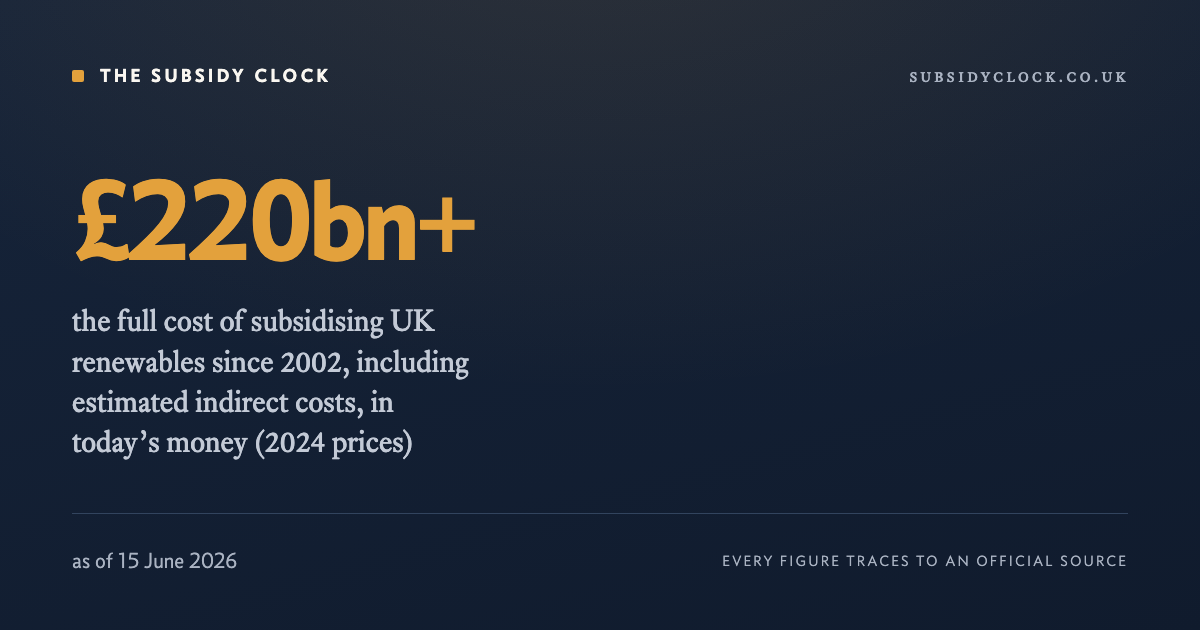
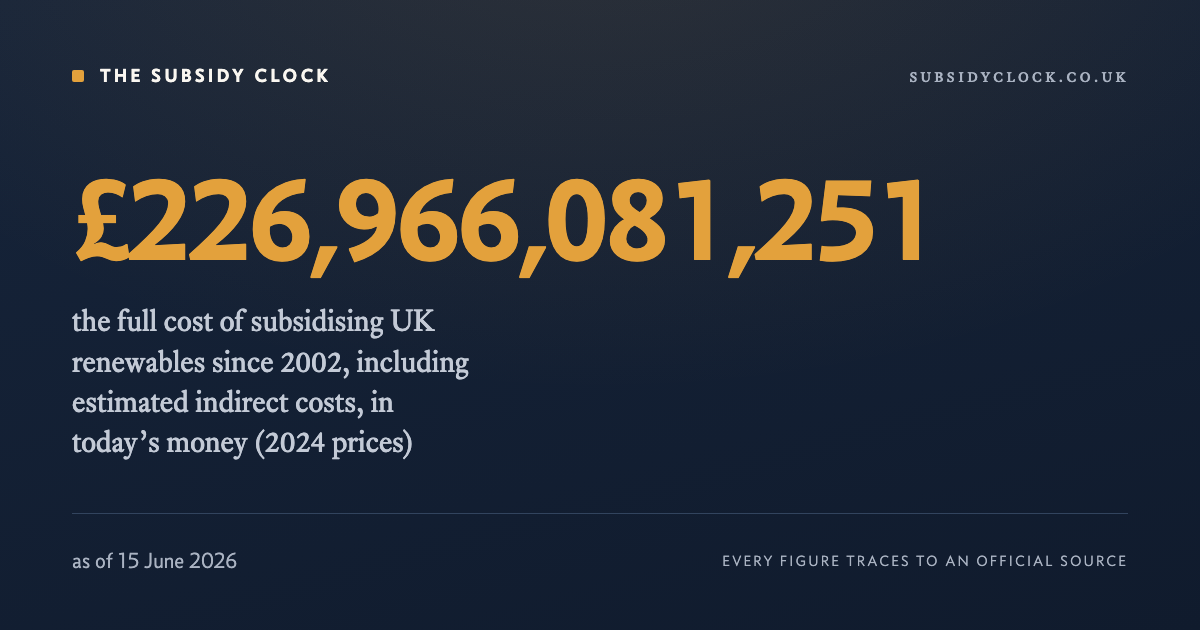
feat(share): headline card shows the full £226,966,081,251 figure, not £220bn+
The impact is in the full twelve-significant-figure number. The floored
£220bn+ remains for the hero lead-in and the 'could have built' factoids
(which must understate); only the card shows the full figure.

Changed region(s): [[0.2158, 0.2714, 0.7708, 0.4524]]

diff --git a/site/s/headline.html b/site/s/headline.html
@@ -3,9 +3,9 @@
 <head>
 <meta charset="utf-8">
 <meta name="robots" content="noindex">
-<title>£220bn+ the full cost of subsidising UK renewables since 2002, including estimated indirect costs, in today’s money (2024 prices) — The Subsidy Clock</title>
+<title>£226,966,081,251 the full cost of subsidising UK renewables since 2002, including estimated indirect costs, in today’s money (2024 prices) — The Subsidy Clock</title>
 <meta name="description" content="As of 15 June 2026. Every figure traces to an official source.">
-<meta property="og:title" content="£220bn+ the full cost of subsidising UK renewables since 2002, including estimated indirect costs, in today’s money (2024 prices)">
+<meta property="og:title" content="£226,966,081,251 the full cost of subsidising UK renewables since 2002, including estimated indirect costs, in today’s money (2024 prices)">
 <meta property="og:description" content="As of 15 June 2026. Every figure traces to an official source.">
 <meta property="og:type" content="website">
 <meta property="og:site_name" content="The Subsidy Clock">
@@ -18,7 +18,7 @@
 <meta http-equiv="refresh" content="0;url=https://subsidyclock.co.uk/">
 </head>
 <body>
-<p>£220bn+ the full cost of subsidising UK renewables since 2002, including estimated indirect costs, in today’s money (2024 prices) (as of 15 June 2026) — <a href="https://subsidyclock.co.uk/">The Subsidy Clock</a>.</p>
+<p>£226,966,081,251 the full cost of subsidising UK renewables since 2002, including estimated indirect costs, in today’s money (2024 prices) (as of 15 June 2026) — <a href="https://subsidyclock.co.uk/">The Subsidy Clock</a>.</p>
 <script>location.replace("https://subsidyclock.co.uk/");</script>
 </body>
 </html>

diff --git a/site/embed/widget.html b/site/embed/widget.html
@@ -45,7 +45,7 @@
 (function () {
   'use strict';
   // stamped at build time; the fetch below refreshes them if this file is cached
-  var stamped = { "cum": 108666448195.95325, "rate": 407.64368473054304, "generated": "2026-06-15T22:08:35.409219+00:00" };
+  var stamped = { "cum": 108666448195.95325, "rate": 407.64368473054304, "generated": "2026-06-15T22:35:19.584002+00:00" };
   var GOATCOUNTER_CODE = 'richlyon'; // set with the site's code to log embed loads
 
   var q = new URLSearchParams(location.search);

diff --git a/src/subsidy_engine/sitedata.py b/src/subsidy_engine/sitedata.py
@@ -64,17 +64,24 @@ def _floor_step_below(v: float, step: float) -> float:
     return f - step if f == v else f
 
 
-def _combined_real_floored_gbp(model: dict) -> float | None:
-    """The combined direct+indirect cumulative in 2024 prices, floored to the
-    nearest £10bn STRICTLY BELOW (the I1/F8 rule: a floor,
-    never a midpoint, so every sentence quoting it understates).
-    app.js's combinedRealFlooredGbp() applies the same rule - keep them in step."""
+def _combined_real_gbp(model: dict) -> float | None:
+    """The full combined direct+indirect cumulative in 2024 prices (no rounding).
+    This is the headline share card's figure — the impact is the full number."""
     r = model["perspectives"]["renewables"]
     if ("cumulative_gbp_2024" in r and "indirect" in model
             and "cumulative_gbp_2024" in model["indirect"]):
-        combined = r["cumulative_gbp_2024"] + model["indirect"]["cumulative_gbp_2024"]
-        return _floor_step_below(combined, 1e10)
+        return r["cumulative_gbp_2024"] + model["indirect"]["cumulative_gbp_2024"]
     return None
+
+
+def _combined_real_floored_gbp(model: dict) -> float | None:
+    """The combined direct+indirect cumulative in 2024 prices, floored to the
+    nearest £10bn STRICTLY BELOW (the I1/F8 rule: a floor, never a midpoint, so
+    every sentence quoting it understates). Used by the hero lead-in and the
+    'could have built' factoids — NOT the headline card, which shows the full
+    figure. app.js's combinedRealFlooredGbp() applies the same rule - keep them in step."""
+    combined = _combined_real_gbp(model)
+    return _floor_step_below(combined, 1e10) if combined is not None else None
 
 
 def _factoids(model: dict, ctx: dict, deflators: pl.DataFrame | None) -> list[dict]:
@@ -238,10 +245,9 @@ def build(model: dict, ctx: dict, freshness: dict, out_dir: Path | str,
         ],
     }, indent=1, default=str, allow_nan=False))
 
-    combined_floor = _combined_real_floored_gbp(model)
-    headline = ({"combined_real_floored_gbp": combined_floor,
-                 "display": f"£{int(combined_floor / 1e9)}bn+"}
-                if combined_floor is not None else None)
+    combined_real = _combined_real_gbp(model)
+    headline = ({"combined_real_gbp": combined_real}
+                if combined_real is not None else None)
     (out / "meta.json").write_text(json.dumps({
         "generated_at": generated_at,
         "freshness": freshness,

diff --git a/src/subsidy_engine/sharecards.py b/src/subsidy_engine/sharecards.py
@@ -195,11 +195,12 @@ def load_facts(data_dir: Path | str) -> tuple[list[dict], str, str]:
     if meta_path.is_file():
         meta = json.loads(meta_path.read_text())
         headline = meta.get("headline")
-        if headline and headline.get("display"):
-            # lead the grid: the £Nbn+ combined figure is the site's headline,
-            # so it goes first in the "Headline figures" group (insert at front)
+        if headline and headline.get("combined_real_gbp"):
+            # lead the grid: the full combined figure is the site's headline, so
+            # it goes first in the "Headline figures" group (insert at front).
+            # Shown in full (every significant figure) — the impact is the number.
             facts.insert(0, {
-                "slug": "headline", "figure": headline["display"],
+                "slug": "headline", "figure": fmt_full(headline["combined_real_gbp"]),
                 "label": "the full cost of subsidising UK renewables since "
                          f"{r['since_year']}, including estimated indirect costs, "
                          "in today’s money (2024 prices)",

diff --git a/tests/test_sharecards.py b/tests/test_sharecards.py
@@ -235,10 +235,12 @@ def test_render_produces_1200x630_pngs(data_dir, tmp_path):
 
 def test_load_facts_includes_headline_card(data_dir):
     (data_dir / "meta.json").write_text(json.dumps(
-        {"headline": {"combined_real_floored_gbp": 2.2e11, "display": "£220bn+"},
+        {"headline": {"combined_real_gbp": 226_966_081_251.12},
          "factoids": []}))
     facts, _, _ = sharecards.load_facts(data_dir)
-    headline = next(f for f in facts if f["slug"] == "headline")
-    assert headline["figure"] == "£220bn+"
+    # headline leads the grid and shows the FULL figure (every significant figure)
+    assert facts[0]["slug"] == "headline"
+    headline = facts[0]
+    assert headline["figure"] == sharecards.fmt_full(226_966_081_251.12)  # "£226,966,081,251"
     assert headline["stub"] is True
     assert headline.get("chart") is not True

diff --git a/tests/test_sitedata.py b/tests/test_sitedata.py
@@ -395,7 +395,7 @@ def test_floor2_floors_does_not_round():
     assert sitedata._floor2(46.98) == 46.98
 
 
-def test_meta_publishes_combined_real_floored_headline(tmp_path):
+def test_meta_publishes_full_combined_real_headline(tmp_path):
     sitedata.build(big_model(), CTX, {}, tmp_path,
                    generated_at="2026-06-15T00:00:00+00:00",
                    deflator_info=DEFLATOR_INFO, deflators=DEFLATORS)
@@ -403,6 +403,5 @@ def test_meta_publishes_combined_real_floored_headline(tmp_path):
     meta = json.loads((tmp_path / "meta.json").read_text())
     combined = (totals["perspectives"]["renewables"]["real_2024"]["cumulative_gbp"]
                 + totals["indirect"]["real_2024"]["cumulative_gbp"])
-    floored = sitedata._floor_step_below(combined, 1e10)
-    assert meta["headline"]["combined_real_floored_gbp"] == floored
-    assert meta["headline"]["display"] == f"£{int(floored / 1e9)}bn+"
+    # the headline card shows the FULL figure (every significant figure), not a floor
+    assert meta["headline"]["combined_real_gbp"] == combined